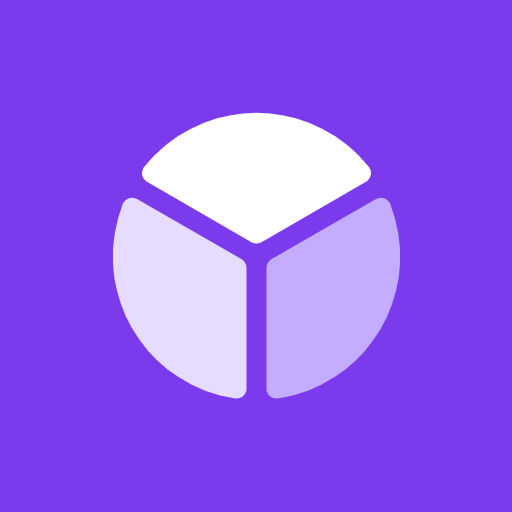
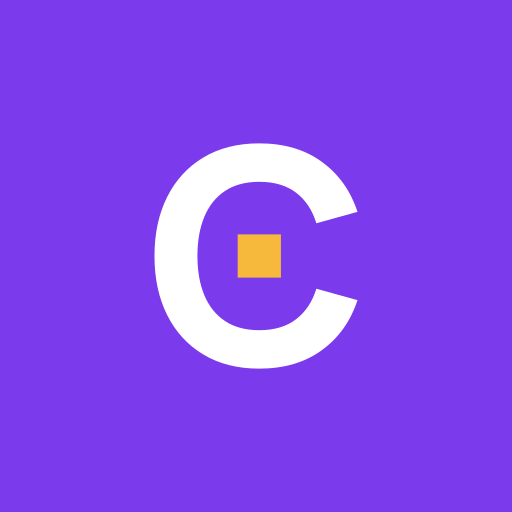
Cambia la marca al wordmark «Núcleo» y renueva los iconos y la imagen OG (#37)
Sustituye el isotipo de la «Y» por un wordmark en contornos de Manrope
ExtraBold cuya C guarda un bloque ámbar en el hueco. La cabecera y el pie
lo pintan en línea con BrandWordmark.astro, sin subtítulo.

Regenera el favicon (SVG e ICO), los iconos de app, el maskable y el touch
icon con el monograma, y añade los avatares de Discord en claro y oscuro.
La imagen OG pasa a la captura de la granja de hierro, con versión
horizontal y cuadrada y nombres nuevos para saltarse la caché de las redes.

Changed region(s): [[0.2188, 0.2188, 0.7812, 0.7812]]

diff --git a/src/styles/global.css b/src/styles/global.css
@@ -10,7 +10,7 @@
 	--line: rgba(28, 21, 36, 0.12);
 	--line-strong: rgba(28, 21, 36, 0.24);
 
-	/* Violeta: el de marca es el del isotipo; el de banda baja medio tono
+	/* Violeta: el de marca es el de los iconos; el de banda baja medio tono
 	   para que el texto blanco encima pase AA (con #8b5cf6 se queda en 4.4). */
 	--violet-brand: #8b5cf6;
 	--violet: #7c3aed;
@@ -202,34 +202,15 @@ img {
 	color: var(--on-violet);
 }
 
-.brand img {
-	width: 2.875rem;
-	height: 2.875rem;
-	aspect-ratio: 1;
-	object-fit: contain;
+/* Wordmark vectorial: las letras heredan el color del enlace y el bloque de la C va en ámbar. */
+.brand-wordmark {
+	display: block;
+	width: auto;
+	height: 1.5rem;
+	aspect-ratio: 10044 / 1622;
 }
 
-.brand-copy {
-	display: grid;
-	gap: 1px;
-}
 
-.brand-name {
-	font-family: var(--display);
-	font-size: 1.1875rem;
-	font-weight: 600;
-	letter-spacing: -0.02em;
-	line-height: 1.1;
-}
-
-.brand-tagline {
-	color: var(--on-violet-3);
-	font-size: 0.6875rem;
-	font-weight: 700;
-	letter-spacing: 0.1em;
-	line-height: 1.2;
-	text-transform: uppercase;
-}
 
 .desktop-nav {
 	display: flex;
@@ -765,14 +746,10 @@ html[data-theme-preference='system'] .theme-icon-state .theme-icon-system {
 	padding-bottom: 3rem;
 }
 
-.site-footer .brand,
-.site-footer .brand-name {
+.site-footer .brand {
 	color: var(--footer-ink);
 }
 
-.site-footer .brand-tagline {
-	color: var(--footer-muted);
-}
 
 .footer-intro {
 	width: min(100%, 21.25rem);
@@ -888,9 +865,8 @@ html[data-theme-preference='system'] .theme-icon-state .theme-icon-system {
 		gap: 0.75rem;
 	}
 
-	.brand img {
-		width: 2.5rem;
-		height: 2.5rem;
+	.brand-wordmark {
+		height: 1.375rem;
 	}
 
 	.desktop-nav,
@@ -934,19 +910,10 @@ html[data-theme-preference='system'] .theme-icon-state .theme-icon-system {
 		gap: 0.75rem;
 	}
 
-	.brand img {
-		width: 2.375rem;
-		height: 2.375rem;
+	.brand-wordmark {
+		height: 1.25rem;
 	}
 
-	.brand-name {
-		font-size: 1.0625rem;
-	}
-
-	.brand-tagline {
-		font-size: 0.5625rem;
-		white-space: nowrap;
-	}
 
 	.theme-toggle {
 		width: 2.875rem;
@@ -977,13 +944,6 @@ html[data-theme-preference='system'] .theme-icon-state .theme-icon-system {
 
 	.footer-bottom {
 		font-size: 0.875rem;
-	}
-}
-
-/* En pantallas muy estrechas el lema no cabe junto a los botones de tema y menú. */
-@media (max-width: 360px) {
-	.brand-tagline {
-		display: none;
 	}
 }
 

diff --git a/src/styles/phi.css b/src/styles/phi.css
@@ -192,28 +192,11 @@ html[data-theme='dark'] .phi {
 	gap: var(--s-2);
 }
 
-.phi .brand img {
-	width: var(--s-4);
-	height: var(--s-4);
+.phi .brand-wordmark {
+	height: 1.75rem; /* el SVG lleva margen: las letras quedan a 26, paso √φ de la escala */
 }
 
-.phi .brand-copy {
-	gap: 2px;
-}
 
-.phi .brand-name {
-	font-size: var(--t-md);
-	line-height: 1;
-	letter-spacing: -0.01em;
-}
-
-.phi .brand-tagline {
-	color: var(--on-violet-2);
-	font-size: var(--t-xs);
-	letter-spacing: 0;
-	line-height: 1;
-	text-transform: none;
-}
 
 .phi .desktop-nav {
 	gap: var(--s-1);
@@ -776,11 +759,6 @@ html[data-theme='dark'] .phi {
 	line-height: var(--t-lg);
 }
 
-.phi .site-footer .brand img {
-	width: var(--s-4);
-	height: var(--s-4);
-}
-
 .phi .footer-nav {
 	display: grid;
 	grid-template-columns: repeat(3, minmax(0, 1fr));
@@ -960,10 +938,6 @@ html[data-theme='dark'] .phi {
 	/* 8 de inset + 13 dentro de la banda = 21 px de margen lateral. */
 	.phi .container {
 		width: calc(100% - 1.625rem);
-	}
-
-	.phi .brand-tagline {
-		font-size: var(--t-xs);
 	}
 
 	.phi .mobile-menu summary {

diff --git a/DESIGN.md b/DESIGN.md
@@ -20,6 +20,14 @@ Vive en `src/styles/phi.css` y cuelga de la clase `.phi`, que envuelve cada pág
 - **Etiquetas del blog:** la categoría de cada artículo es su etiqueta y su color — Novedades `#7c3aed`, Guías `#3f7a1e`, Servidor `#f6b93b`. Una categoría nueva sale en gris hasta que se le añade su regla `[data-tag]` en `phi.css`.
 - **Portadas:** ilustraciones de bloques 3D sobre fondo liso del color de su etiqueta, en WebP a 1200 px.
 
+## Marca (septiembre 2026)
+
+- **Wordmark:** «Cubusfera» en contornos de Manrope ExtraBold (800) con su kerning y un apretado de −1,2 %. La única marca propia es un bloque ámbar `#F6B93B` en el hueco de la C («Núcleo»: un cubo dentro de la esfera). Sin subtítulo.
+- **Monograma:** la C sola con su bloque, para cualquier sitio cuadrado. Se centra sobre su caja exacta, sin compensaciones ópticas.
+- **Uso en la web:** `BrandWordmark.astro` dibuja el wordmark en línea; las letras toman `currentColor` (blanco en la banda violeta y en el pie) y el bloque va siempre en ámbar. Alto de 26 px.
+- **Ficheros** (`public/images/brand/`): `cubusfera-wordmark.svg` (tinta) y `-white.svg`; `cubusfera-monogram.svg`; `cubusfera-favicon.svg` (C al 68 % sobre violeta) y `/favicon.ico` (16, 32 y 48 px); iconos de app a 192/512 (C al 56 %), maskable (44 %) y touch icon (52 %); avatares de Discord `cubusfera-discord-light` (tinta sobre `#FDF8EF`) y `-dark` (claro sobre `#100F13`), en SVG y PNG de 1024 px, con la C al 50 % para el recorte circular.
+- **No hacer:** redibujar la C a mano, separar el bloque de la letra, ponerlo en otro color o añadir un isotipo aparte.
+
 ## 0. Propósito y fuente de verdad
 
 Cubusfera no necesita parecer el servidor más grande de Minecraft. La web debe ayudar a que una persona compatible reconozca el ambiente, entienda las condiciones de entrada y llegue a Discord con expectativas correctas.
@@ -258,7 +266,7 @@ La imagen es evidencia del mundo, no un fondo genérico. Se usan assets reales d
 - `public/images/gallery/`: capturas del mundo para el mosaico.
 - `public/images/brand/`: iconos, marca pixelada, mundo, aventurero y guía.
 - `public/images/minecraft-map-item.png`: placeholder visual de BlueMap.
-- `public/images/og-cubusfera.jpg`: Open Graph y previews.
+- `public/images/og-cubusfera-2026-09.jpg` (1200 × 630) y `-square.jpg` (1200 × 1200): Open Graph de la portada. Al cambiarlas, cambia el nombre: las redes las guardan en caché por URL.
 
 Dirección de imagen:
 
